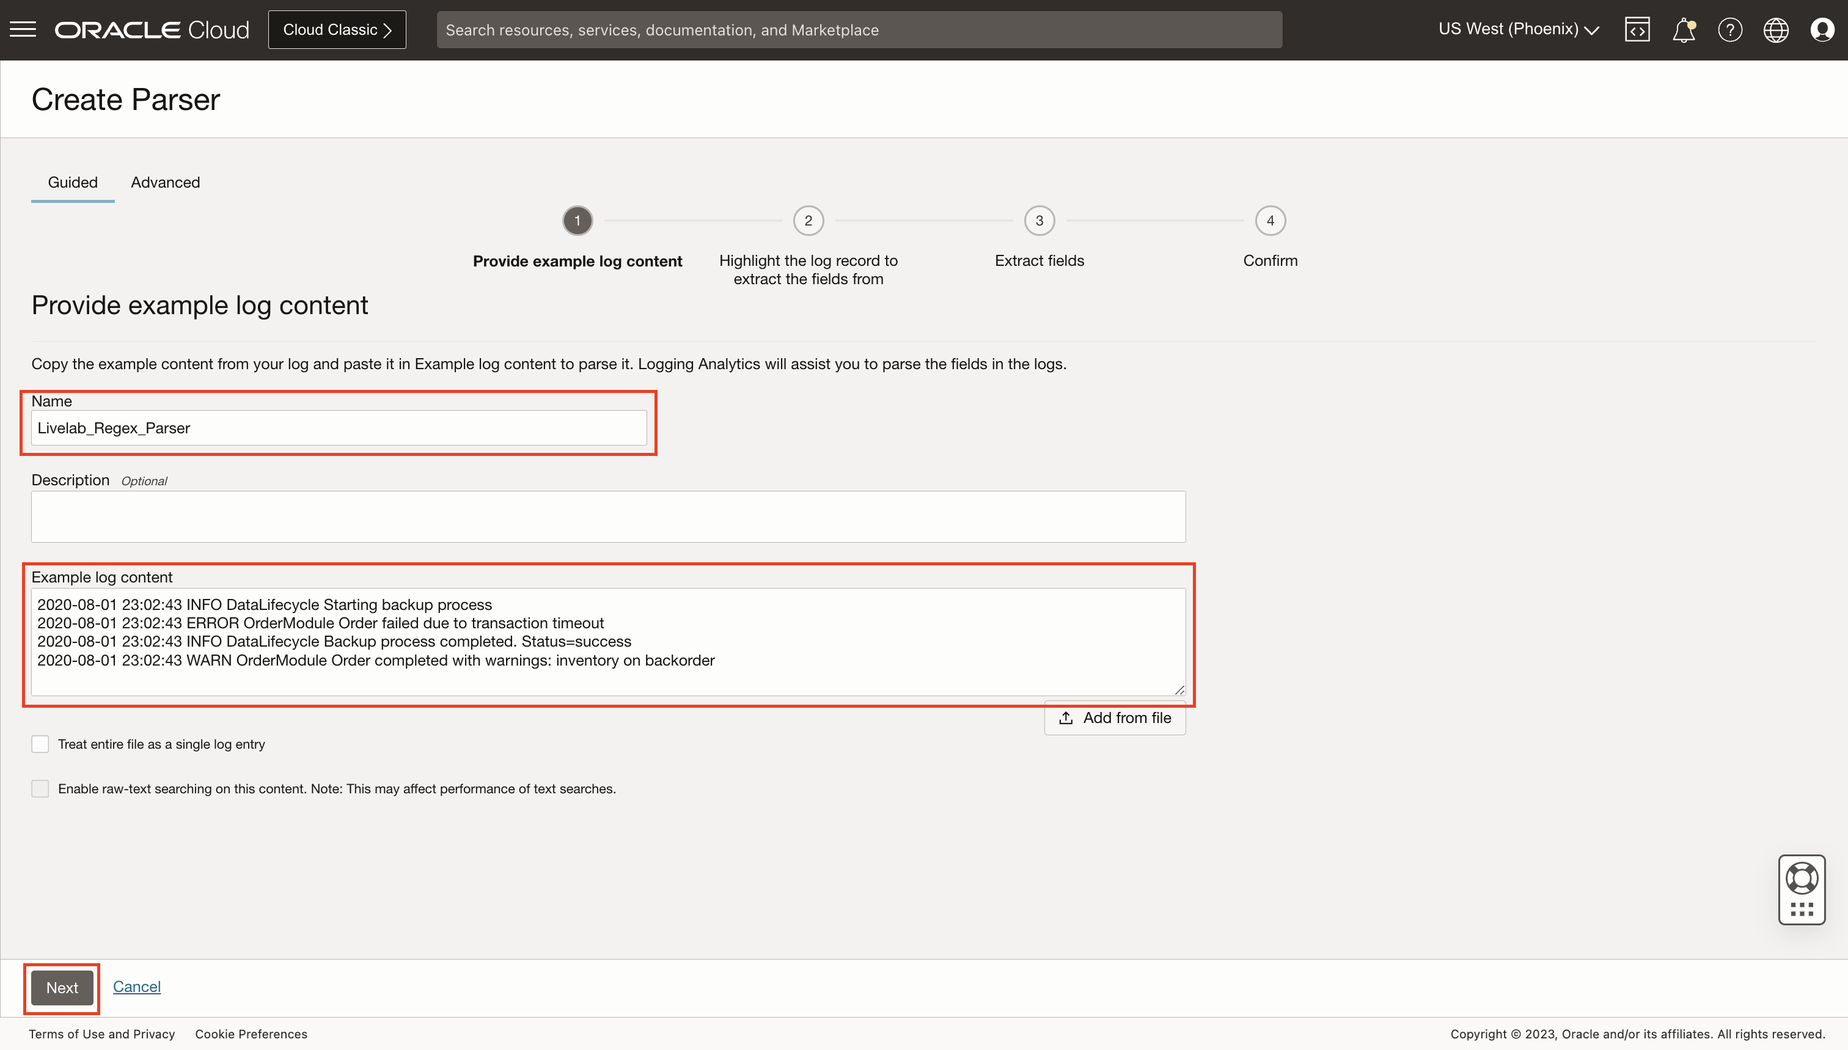
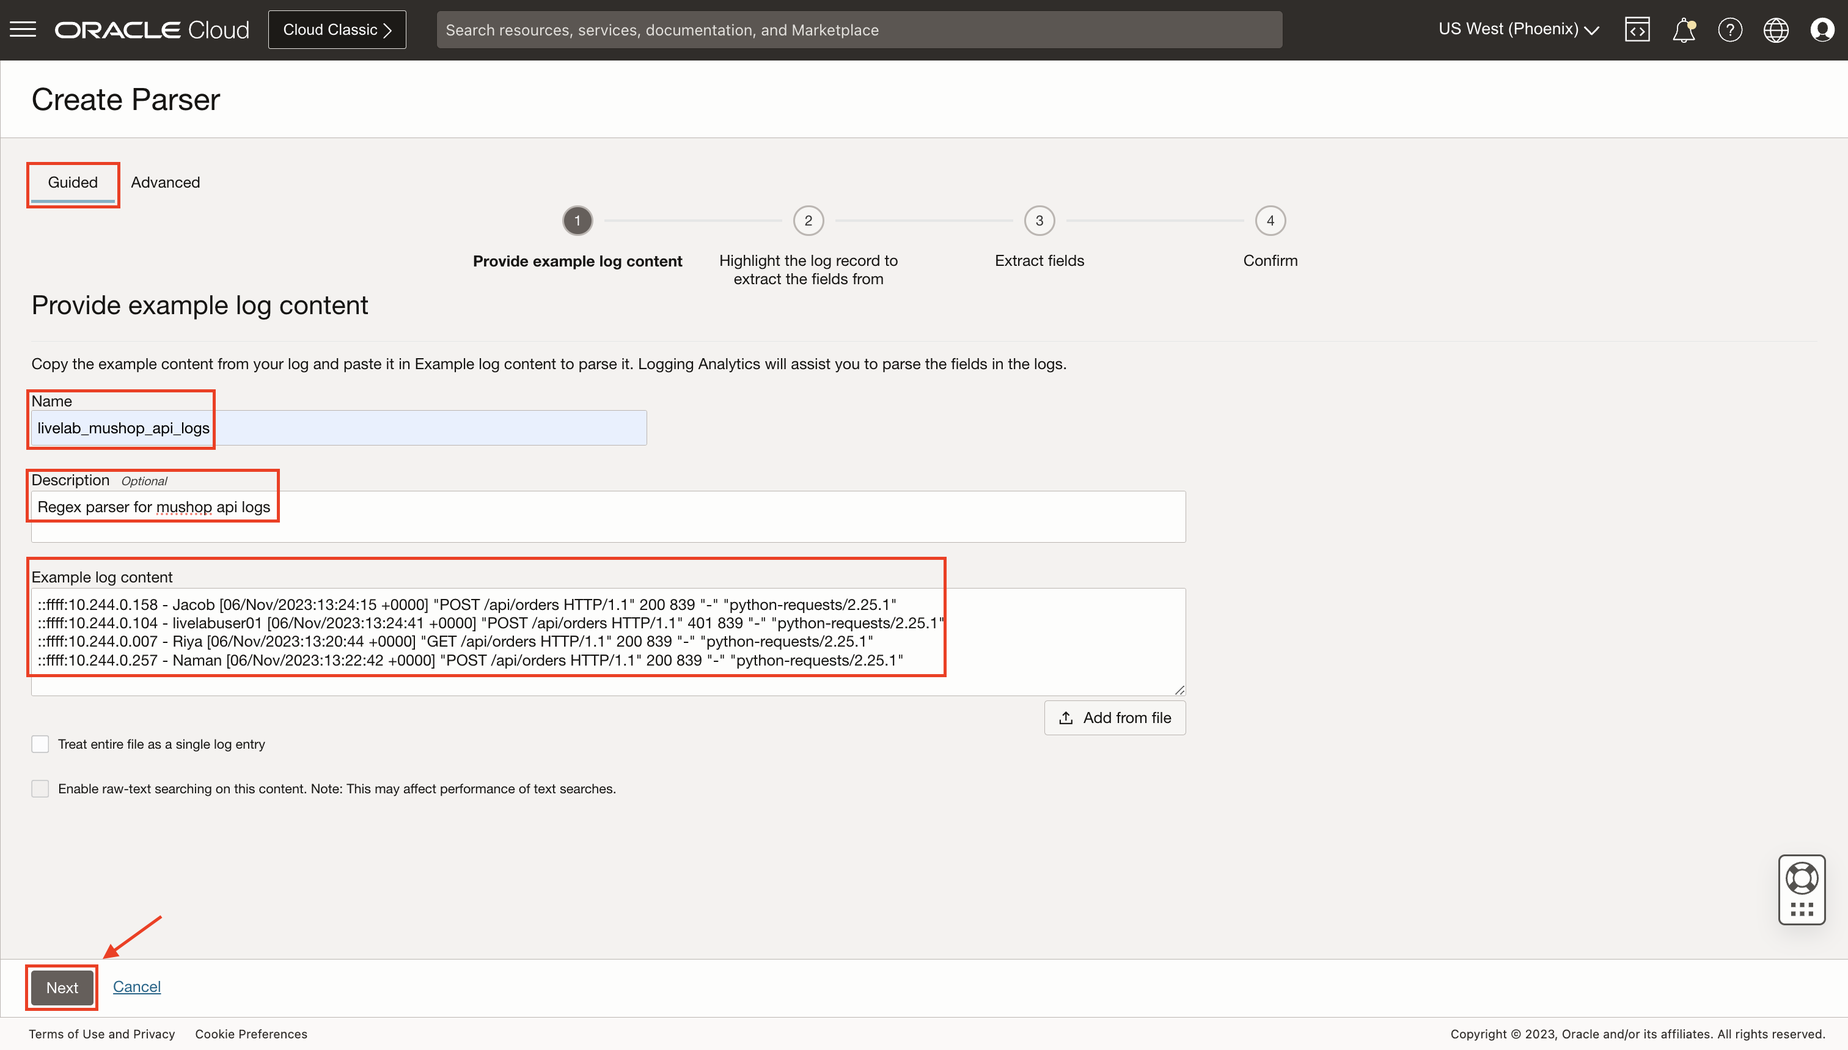
completed lab1,2,10

diff --git a/logging-analytics/alarms-detection-rules-la/unsuccessful-food-orders/unsuccessful-food-orders.md b/logging-analytics/alarms-detection-rules-la/unsuccessful-food-orders/unsuccessful-food-orders.md
@@ -37,28 +37,207 @@ There are four varieties of base parser:
 
 ## Task 2:  Create single-line parser
 
-qwertyuiop
+In this task you will learn how to create a single-line parser.
 
-## Task 3:  Create multi-line parser
+For creating a single-line parser, we need a sample log record(s), which we wanted to parse. By creating a parser, you define how to extract log entries from a log file and also how to extract fields from a log entry. Click on **Create Parser** button.
 
-qwertyuiop
+1. You can navigate to **Parser page** as mentioned in [Lab 7: Task 1](?lab=dns-exfiltration#Task1:NavigatetoParsers). Click on **Create Parser** button.
 
-## Task 4: Visualize parsed data in explorer
+2. A dropdown will appear, showing four types of parsers available. As per our type of sample log you can select any. In this lab you will create a **Regex Type** parser. Click on **Regex Type**.
+![parser-dialog-box](images/parser-dialog-box.png)
 
-qwertyuiop
+3. The **Create Parsers Page** page is displayed. In case of Regex Type, the Create Parser page opens in the **Guided** mode, by default. Continue in this mode if you want Logging Analytics to generate the regular expression to parse the logs after you select the fields. If you want to write regular expression for parsing, then switch to **Advanced** mode. You will go for **Guided** mode, as it is very easy method to create Parser, you don't need knowledge of regular expression.
 
-## Task 5: Create alarms for more than 30% unsuccessful orders in 15 mins
+4. This is the first step of parser creation.
 
-qwertyuiop
+    * In the **Name** field, enter the parser name. For example, enter **livelab\_mushop\_api\_logs**.
+    * (Optional) Provide a suitable **description** to the parser for easy identification.
+    * In the **Example Log Content field**, paste the contents from a log file that you want to parse, such as the following:
+        ```
+        <copy>::ffff:10.244.1.225 - livelab_user [06/Nov/2023:03:22:17 +0000] "POST /api/orders HTTP/1.1" 401 70 "-" "python-requests/2.25.1"
+        ::ffff:10.244.1.42 - livelab_user [06/Nov/2023:21:00:35 +0000] "POST /api/orders HTTP/1.1" 503 86 "-" "python-requests/2.25.1"
+        ::ffff:10.244.1.42 - livelab_user [06/Nov/2023:08:25:16 +0000] "POST /api/orders HTTP/1.1" 500 120 "-" "python-requests/2.25.1"
+        ::ffff:10.244.0.104 - livelab_user [06/Nov/2023:02:51:18 +0000] "GET /api/orders HTTP/1.1" 200 719 "-" "python-requests/2.25.1"</copy>
+        ```
+    * This is a single-line log entry, as each record is of single line, as shown in the figure below.
+        ![create-parser-page-1](images/create-parser-page-1.png)
+
+    * Click on **Next** to go to second step of parser creation.
+
+5. Select one of the log records, you want to extract the field from.
+    ![create-parser-page-2](images/create-parser-page-2.png)
+    Click on **Next** to go to third step of parser creation.
+
+6. Select the exact content for the value of each field. For example select the **::ffff:10.244.0.14"** content from the shown log record, a dialog of **Extract field** will appear. Here you can see the text you want to extract as a field, there is option if you don't want to extract it as field, you can select the **as literal text** option. From the Field dropdown, select the existing **Field Name**, here it is **Host IP Address (Client)**. You can also create a custom field, if it is not present in the dropdown. The **Regular expression** for the selected text will be auto generated. Mark the **Optional field** button if you want to make the field as optional. Click on **Extract field** option to map the selected text to field.
+    ![create-parser-page-3.1](images/create-parser-page-3.1.png)
+
+7. Selected text has been mapped to the field, you can see the **Parser Test**, where **Host IP Address (Client)** has been extracted out of all the log records which were pasted in Step 4. **Parser expression** will also be auto generated. **Match Status** will show if we are successful in extracting the field from all the log records. Click on **Next** to select another content to log record to be extracted out.
+    ![create-parser-page-3.2](images/create-parser-page-3.2.png)
+
+8. Repeat the Step 7, by selecting other content of log i.e. **livelabuser01**. After clicking on **Next**, you will see other column of **User Name** field has been added to the table showing extracted user names from the log records. You will also see the **Parse expression** has been modified now.
+    ![create-parser-page-3.3](images/create-parser-page-3.3.png)
+
+9. Similarly, repeat the Step 7, until you extracted all the field from selected log record, you will see all the extracted field in the table, with its extracted value from the log records. Verify by observing all the extracted fields, if they seems fine. Click on **Next**.
+    ![create-parser-page-3.4](images/create-parser-page-3.4.png)
+
+10. This is the last step of parser creation. Verify the **Parser expression**, field name, parser regular expression, data type, description of each field and other fields. If you want to change something, you can go to **Previous** step, or else click on **Create Parser** to create parser.
+    ![create-parser-page-4](images/create-parser-page-4.png)
+
+## Task 3: Visualize parsed data in explorer
+
+In this task, you will learn, how to visualize the parsed data in explorer. You will use the same logs that were used in **Task 2**.
+
+For, viewing the logs in log explorer, you will need a log source, which will be mapped with the parser you have made in **Task 2**. Sources define the location of your entity's logs and how to enrich the log entries. To start continuous log collection through the OCI management agents, a source needs to be associated with one or more entities.
+
+1. You can navigate to **Sources page** as mentioned in [Lab 7: Task 3](?lab=dns-exfiltration#Task3:NavigatetoSources). Click on **Create Source** button.
+
+2. A **Create User Defined Source** page will appear. Fill the details:
+    * **Name:** Enter the name of the source for example, **Livelab API Mushop Log Source**.
+    * (Optional)**Description:** Add a short description to describe the source.
+    * **Source Type:**  Oracle Log Analytics supports six log source types:
+        * File, Oracle Diagnostic Logging (ODL), Syslog Listener, Database, REST API, Microsoft Windows.
+        * **File** is use for collecting most types of logs, such as Database, Application, and Infrastructure logs, you will use this.
+    * **Entity Type:** Click the Entity Type field and select the type of entity for this log source. Later, when you associate this source to an entity to enable log collection through the management agent, only entities of this type will be available for association. A source can have one or more entity types. Here entity types does not matter as you will be uploading the log file directly from the desktop as seen in **Task: 2**.
+    * **Parser:** You have made a parser in **Task: 2**, select **Specific parser(s)** button and select the user defined parser which was created earlier i.e. **livelab\_mushop\_api\_logs**.
+    * Rest all the fields are Optional and not required in this Lab.
+    * Click on **Create Source**.
+    ![create-source-page](images/create-source-page.png)
+
+4. Source **Livelab API Mushop Log Source** is created with parser **livelab\_mushop\_api\_logs**. Now, you need to get logs in from this log source. There are various ways to ingest logs in source as discussed in [Lab 1: Task 3](?lab=la-overview#(ReadingExerciseOnly)Task3:NavigatingtotheAddDataPage).
+
+5. Copy the log records provided in **Task 2**, paste it in a text file and save it in your local computer with .txt extension.
+
+6. Refer to [Lab 1: Task 6](?lab=la-overview#(ReadingExerciseOnly)Task6:Uploadlogfilesfromyourcomputerdesktop) for uploading the locally saved log file to the log source. While uploading:
+    * Select existing **Log Group** in your compartment, if you don't have any, you can create it easily by clicking on **Create Log Source**.
+    * Make sure to select the Log Source as **Livelab API Mushop Log Source**, which was created in Step 3.
+
+7. Last step, is to click on **View In Log Explorer**, on the page which comes in the last step of [Lab 1: Task 6](?lab=la-overview#(ReadingExerciseOnly)Task6:Uploadlogfilesfromyourcomputerdesktop).
+
+8. Log explorer will appear, showing all four parsed logs. To have more understanding about Log Explorer, you can refer to [Lab 1: Task 2](?lab=la-overview#Task2:UserinterfacesofLogExplorer).
+    ![log-explorer-1](images/log-explorer-1.png)
+
+9. Click on the **Arrow** circled in the above image, to view all the fields extracted out from log record by parser.
+    ![log-explorer-2](images/log-explorer-2.png)
+
+## Task 4: Create alarms for more than 30% failed APIs in 15 mins
+
+In this task, you will create an alarm for real life based application. The API logs which we are using will be classified into **Livelab Passed API** and **Livelab Failed API**. In each 15 minutes interval if there are more than 30% of Livelab Failed APIs, an alarm will be triggered.
+
+You will be creating two detection rules, one in which you will classify and label log record as **Livelab Passed API** and other to classify and label log record as **Livelab Failed API**, using these two labels, you will create an alarm.
+
+1. You can navigate to **Sources page** as mentioned in [Lab 7: Task 3](?lab=dns-exfiltration#Task3:NavigatetoSources). Search for **Livelab API Mushop Log Source**, which was created in **Task 3**. Click on it.
+
+2. Click on **Edit** button.
+    ![edit-source](images/edit-source.png)
+
+3. Click on **Labels**, to add label. Cick on **Add conditional label**.
+    ![labels](images/labels.png)
+
+4. You will create label for Failed API. In the Conditions section:
+    * Select the log field on which you want to apply the condition from the Input Field list. Select **Status** from dropdown list.
+    * Select the operator from the Operator list. Select **Contains** or **Equals**. Both can be used in the given usecase.
+    * In the Condition Value field, specify the value of the condition to be matched for applying the label. For failed APIs, values of Status can be **401, 400, 404, 406, 408** which we extracted using parsers from log records.
+    * Under Actions, select from the already available Oracle-defined or user created labels. If required, you can create a new label by clicking **Create Label**.
+    ![add-label-1](images/add-label-1.png)
+
+5. **Create Label** dialog box will appear. Fill in the details:
+    * **Label Name:** Enter the label name. For example, **Livelab Failed API**.
+    * (Optional) **Description:**  Enter the details about the label.
+    * Labels can be marked as being a problem with a priority to make those log entries more prominent in the Log Explorer. To assign priority to the label. Under Livelab Failed API select **Yes** check box.
+    * In the Problem Priority field, click the down arrow and select a priority. For example, select **Medium**.
+    * A log entry will be assigned a problem priority based on the labels that get attached to the log entry. In this case, if Livelab Failed API has a problem priority of Medium, any log entry that matches a condition such that it gets the Livelab Failed API label would have a problem priority of Medium.
+    * In the **Related Terms** field, enter the terms that are related to the log entry.
+    * Click on **Create**.
+![add-label-2](images/add-label-2.png)
+
+6. Similarly, add another label, named **Livelab API Passed**. Uncheck the **Use this label to indicate a problem**, as are not having any problem for passed APIs. For adding condition:
+    * If the **Status** does not contain or not equal to **401, 400, 404, 406, 408**, the log record can be labelled as passed.
+    * Select **Status** from dropdown list in Input Field List. Select **Not Contain** operator. Add **401** as condition value.
+    * **Not Contain** operator only allows for one value, so add more conditions by clicking on the Add Condition icon, marked as 2 in below image.
+    * Select the logical operation to apply on the multiple conditions. Select **AND**.
+    * Similarly add other 4 conditions where Status does not contain **406,409,400,404**.
+    * Click on **Add**.
+![add-label-3](images/add-label-3.png)
+
+7. In the **Edit Source**, you will be able to see the two condition with its associated label. Click on **Save Changes**.
+    ![labels-added](images/labels-added.png)
+
+8. Create two ingest time detection rules, as discussed in [Lab 2: Task 4](?lab=alarms-detection-rules#Task4:CreateDetectionRules)
+
+9. One rule for detecting **Livelab API Passed** label. Fields to be filled in Create detection rule page:
+    * **Rule name:** Livelab Detect Passed API.
+    * **Metric Namespace:** livelabmetricnamespace.
+    * **Metric Name:** livelab_name.
+    ![detection-rule-1](images/detection-rule-1.png)
+     * Click on **Create detection rule**.
+
+10. Other rule for detecting **Livelab Detect Failed API**. Fields to be filled in Create detection rule page:
+    * **Rule name:** Livelab Detect Failed API.
+    * **Metric Namespace:** livelabmetricnamespace.
+    * **Metric Name:** livelab_name.
+![detection-rule-2](images/detection-rule-2.png)
+     * Click on **Create detection rule**.
+
+11. Make sure that Metric Namespace and Metric Name remains same throughout the task, or else results may not appear.
+
+12. Navigate to **Create Alarm page** as discussed in Option 1 of [Lab 2: Task 5](?lab=alarms-detection-rules#Task5:CreateAlarmsandNotifications)
+
+13. Provide alarm name as **Livelab Failed APIs more than 30%**. Click on **Switch to Advanced Mode**, as a complex query will be required which will be using two labels from detection rule to create this alarm.
+    ![alarm-adv-mode](images/alarm-adv-mode.png)
+
+14. Make sure that the compartment and Metric Name is same as given for detection rules. Inside query editor, paste this query:
+    ```
+    <copy>livelab_name[15m]{label = "Livelab API Failed"}.grouping().sum() / (livelab_name[15m]{label = "Livelab API Passed"}.grouping().sum() + livelab_name[15m]{label = "Livelab API Failed"}.grouping().sum()) > 0.3</copy>
+    ```
+    This query  is the condition, when the alarm will trigger. Query implies, if the total no of log records with failed labels divide by total no of log records (failed labels and passed labels) is greater than 0.3 i.e. more than 30%, then the alarm will trigger.
+
+    ![alarm-query](images/alarm-query.png)
+
+    Currently, there is not data uploaded after creating alarm, so you see the graph is empty. You can have a table view by clicking on **Show Data Table**.
+
+15. Now, **Define alarm notification**, select the **Destination service**, **compartment** and **Topic**, if there are no existing topic, you can create a new one just by clicking on **Create a topic**. For more information regarding these options, you can refer [Lab 2: Task 5](?lab=alarms-detection-rules#Task5:CreateAlarmsandNotifications)
+    ![alarm-end](images/alarm-end.png)
+
+16. Click on **Save alarm**. **Alarm Definitions page** will show up, providing the details of alarm, with a **Ok** mark.
+    ![alarm-before-triggering](images/alarm-before-triggering.png)
+
+17. Now, your alarm is ready. To test it, you will have to give some log records.
+
+18. A **python script** is attached with this lab. Download it, run it. A file named **logrecords\_for\_livelab.txt** will be created at the location, where this script is executed. These file will contains 1000 random log records, generated in interval of your current UTC time and 2 hours before your current UTC time.
+
+    > **NOTE :** Alarm only works if the logs are not more than 2 hours older.
+
+19. Refer to **Step 7 of Task:3**, for uploading the local file to console. Once the file is uploaded and processed, you will see **Processing Status** as Successful, as shown in below image.
+    ![file-uploaded](images/file-uploaded.png)
+
+20. As the file is processed, the log records will also be parsed with the provided parser. All logs will be labelled as **Livelab Failed API** or **Livelab Passed API**. The alarm will check all the logs in interval of 15mins, runs it query, and will be triggered as soon as the queries satisfies.
+
+21. Open **Navigation Menu** ![navigation-menu](images/navigation-menu.png) > **Observability & Management** > **Monitoring** > **Alarm Definitions** > **Livelab Failed APIs more than 30%** alarm. You will notice, the alarm has changed its state from **Ok** to **Firing**. A graph can be seen under **Alarm data** as shown in image. Click on **Show Data Table**
+    ![alarm-triggered-graph](images/alarm-triggered-graph.png)
+
+22. From data table, you can clearly observe, the alarm has been triggered 5 times, in interval of 15 minutes, in last hour. Click on **Quick selects** dropdown, and change time to **Last 6 hours**. By observing the table, it can be observed that for the uploaded logs, the alarm triggered 9 times, and sent a notification to selected destination.
+    ![alarm-triggered-table](images/alarm-triggered-table.png)
+
+    You can also observe, that the alarm was initially in **Ok** state, then it went to **Firing** state, after some time, it will go to **Reset** state, waiting to go to **Firing** state again.
 
 You may now **proceed to the next lab**.
 
 ## Learn More
 
-qwertyuiop
+For further reading please refer to the resources.
+
+[Create a Parser] (<https://docs.oracle.com/en-us/iaas/logging-analytics/doc/create-parser.html>)
+
+[How to use a RegEx Parser Builder?] (<https://www.youtube.com/watch?v=EoBJkaq9Png>)
+
+[Create a Source] (<https://docs.oracle.com/en-us/iaas/logging-analytics/doc/create-log-source.html>)
+
+[Upload Logs on Demand] (<https://docs.oracle.com/en-us/iaas/logging-analytics/doc/upload-logs-demand.html>)
+
+[Managing Alarms] (<https://docs.oracle.com/en-us/iaas/Content/Monitoring/Tasks/managingalarms.htm>)
 
 ## Acknowledgements
 
 * **Author** - Chintan Kalsaria, OCI Logging Analytics
 * **Contributors** -  Chintan Kalsaria, Kiran Palukuri, Ashish Gor, Kumar Varun, OCI Logging Analytics
-* **Last Updated By/Date** - Chintan Kalsaria, Nov, 2023
+* **Last Updated By/Date** - Chintan Kalsaria, Dec, 2023

diff --git a/logging-analytics/alarms-detection-rules-la/alarms-detection-rules/alarms-detection-rules.md b/logging-analytics/alarms-detection-rules-la/alarms-detection-rules/alarms-detection-rules.md
@@ -35,11 +35,24 @@ There are two types of Detection rules:
 
 2. **Ingest time detection rule:** Rule applied at time of log ingestion, and sends the result of rule to Monitoring service. There are many ways to ingest logs like, on demand upload, using service collectors, using historic object collection, etc.
 
-## Task 3: Create Detection Rules
+## Task 3: Check the Policies
 
-TODO:Policy add
-TODO:See if there is another method to go to that option
-TODO:Confluence page update karo
+To create and manage Detection Rules and use them in the Monitoring Service, the correct policies need to be set:
+
+  ```
+    <copy>Policies allow group &lt;group name&gt; to manage loganalytics-ingesttime-rule in tenancy
+    allow service loganalytics to use metrics in tenancy</copy>
+  ```
+
+Replace the group name with whatever group fills your needs, be sure that your user is part of that group.
+
+To set the policies go to **"Identity & Security"** > **"Identity"** > **"Policies"**
+
+![go-to-policies-tab](images/go-to-policies-tab.png)
+
+Here you can create a new policy or edit an existing one to contain the needed policies.
+
+## Task 4: Create Detection Rules
 
 In this task you will learn how to create a Ingest time detection rule.
 
@@ -74,13 +87,26 @@ For creating a detection rule, you need a log source and entity associated with 
 
 When the match specified in the log source is encountered in the log record while ingesting, a metric value is posted to OCI Monitoring service. You can get alerts from OCI Monitoring service by configuring an alarm on that metric.
 
-## Task 4: Create Alarms and Notifications
+## Task 5: Create Alarms and Notifications
 
-1. From **Navigation Menu** ![navigation-menu](images/navigation-menu.png) > **Observability & Management** > **Monitoring** > **Alarm Status**.
-    * Here, all the alarms fired by the events in Logging Analytics are consolidated. The table displays the alarm name, its severity, the time when it was triggered, and whether it is suppressed or not.
-    * Select the **Compartment** of your alarms in the **Scope section**.
-    * Click on the **Create Alarm**. The Create Alarm dialog box opens.
+1. There are 2 two ways to navigate to **Create Alarm Page**:
+
+### **Option 1:**
+
+From **Navigation Menu** ![navigation-menu](images/navigation-menu.png) > **Observability & Management** > **Monitoring** > **Alarm Status**.
+
+* Here, all the alarms fired by the events in Logging Analytics are consolidated. The table displays the alarm name, its severity, the time when it was triggered, and whether it is suppressed or not.
+* Select the **Compartment** of your alarms in the **Scope section**.
+* Click on the **Create Alarm**. The Create Alarm dialog box opens.
 ![alarms-navigation](images/alarm-navigation.gif)
+
+### **Option 2:**
+
+* After creating a Detection rule, you will land up on detection rules page, where you will able to see all the detection rules. Click on the detection rule which you made just now i.e. **Livelab\_detection\_rule**.
+![detection-rule-page](images/detection-rule-page.png)
+
+* Click on **Create Alarm** button as seen in figure. The Create Alarm dialog box opens.
+![create-alarm-button](images/create-alarm-button.png)
 
 2. Specify the **Alarm name**. Let's say you named it as **"Livelab_alarm"**.
 

diff --git a/logging-analytics/alarms-detection-rules-la/la-overview/la-overview.md b/logging-analytics/alarms-detection-rules-la/la-overview/la-overview.md
@@ -215,4 +215,4 @@ For further reading please refer to the resources.
 
 * **Author** - Chintan Kalsaria, OCI Logging Analytics
 * **Contributors** -  Chintan Kalsaria, Kiran Palukuri, Ashish Gor, Kumar Varun, OCI Logging Analytics
-* **Last Updated By/Date** - Chintan Kalsaria, Nov, 2023
+* **Last Updated By/Date** - Chintan Kalsaria, Nov 2023
